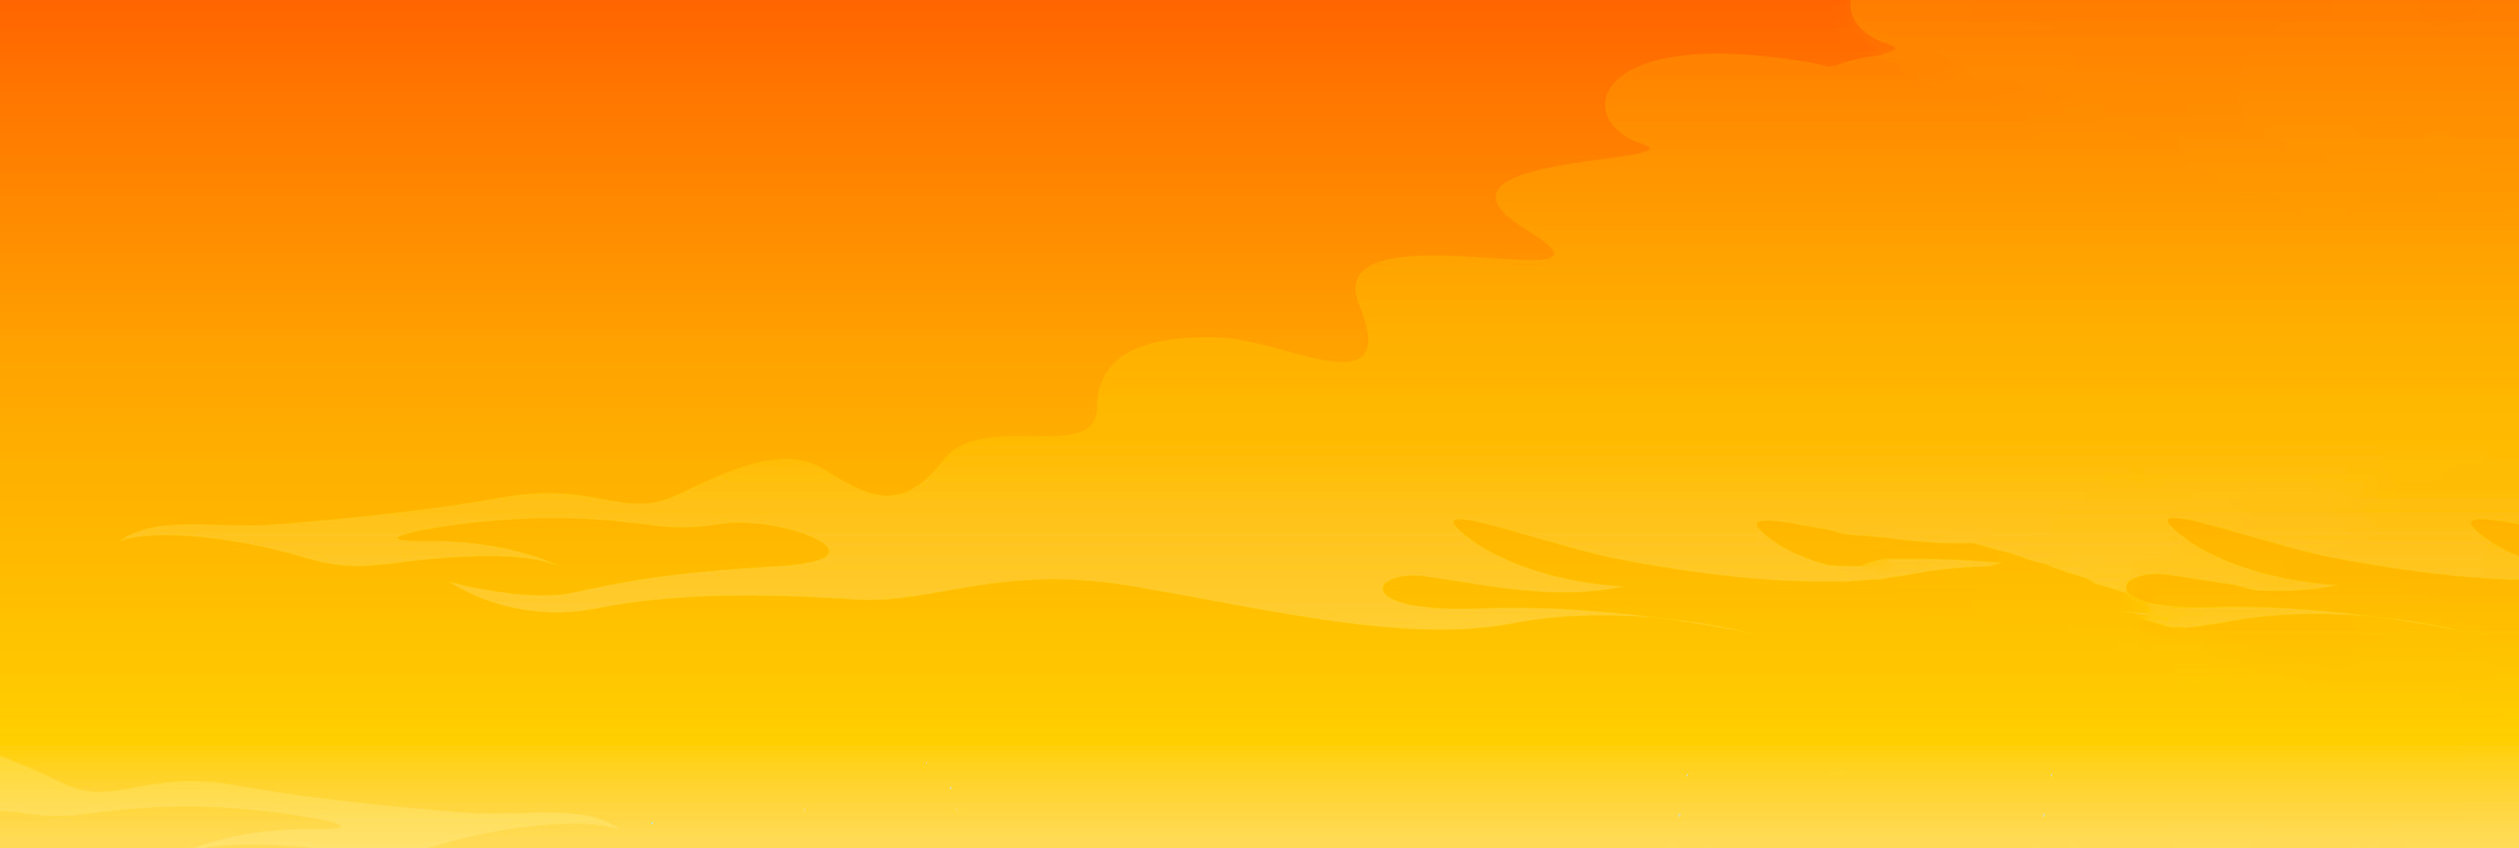
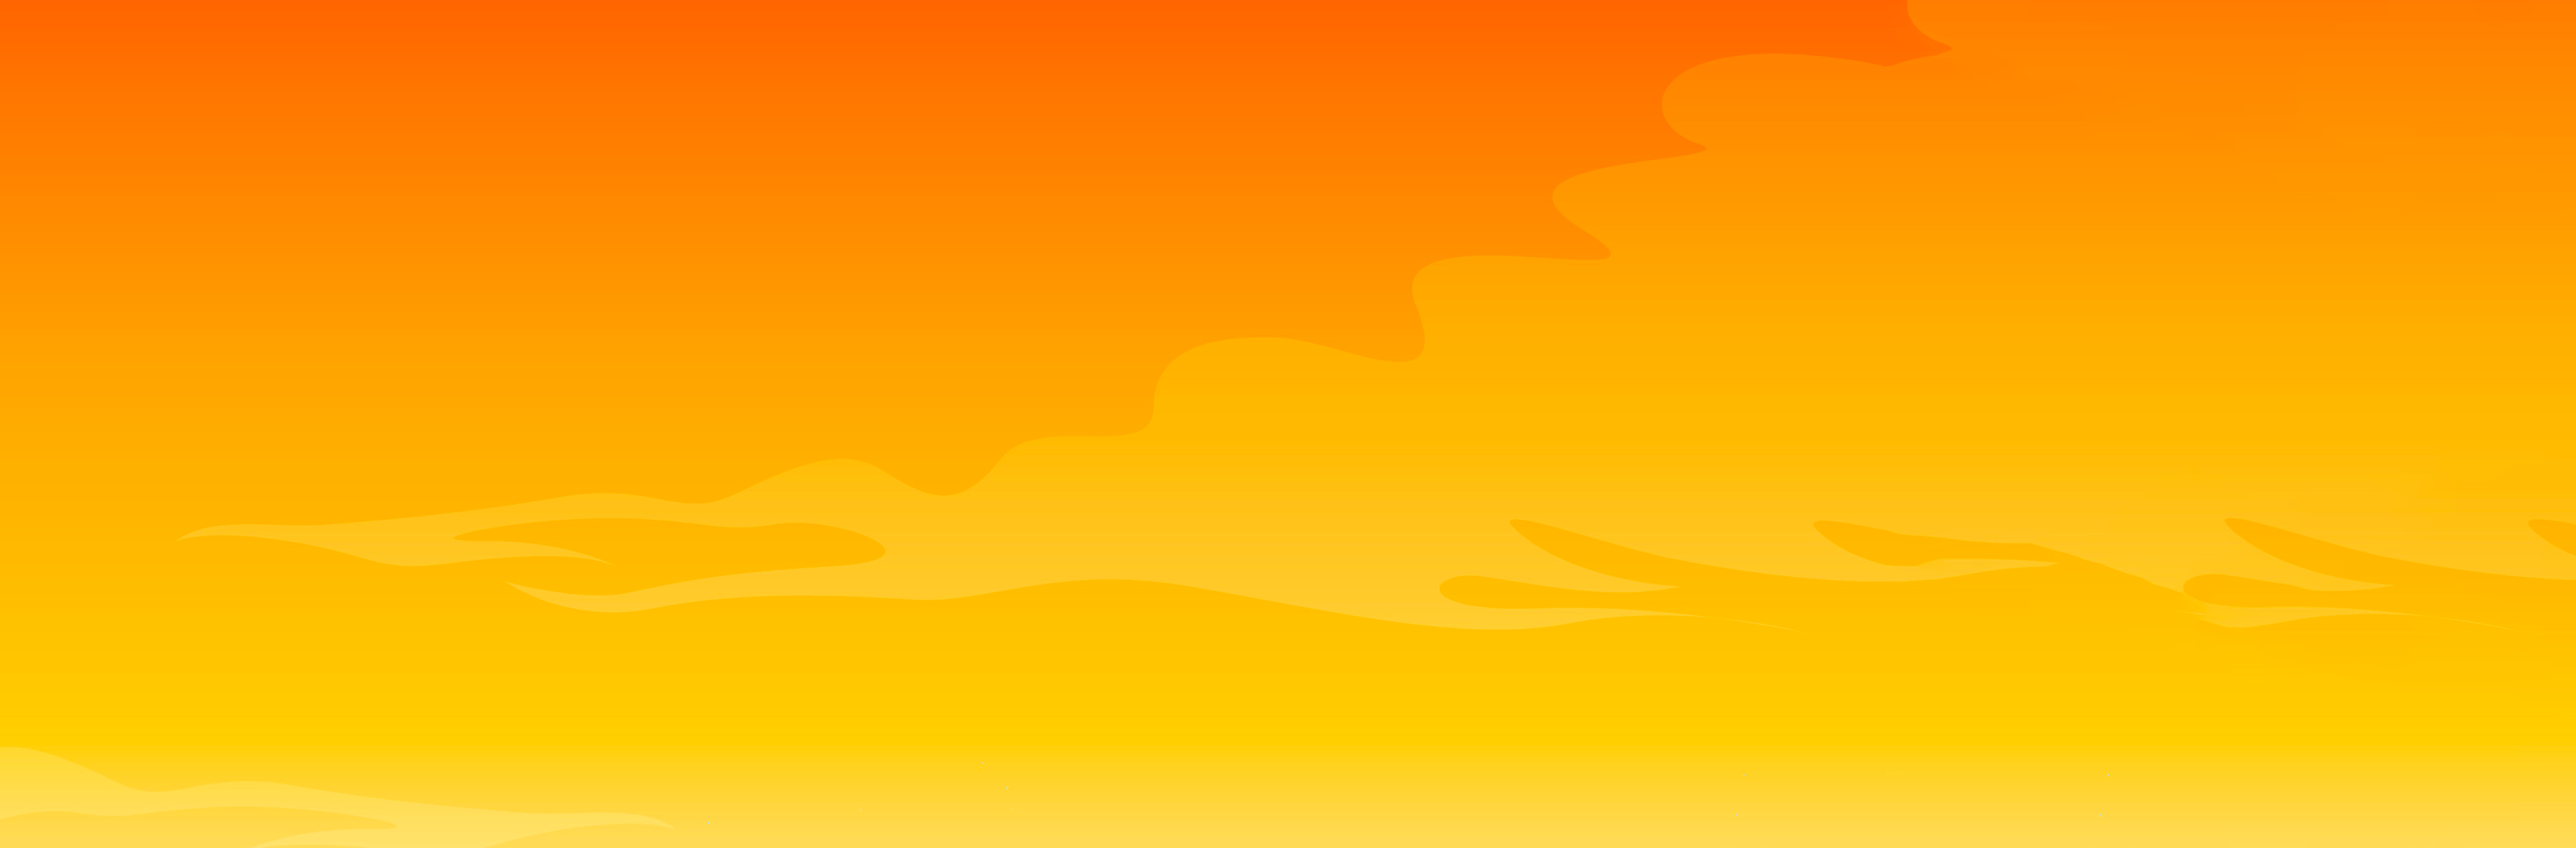
fix sub sky texture

diff --git a/client/src/app/components/pages/canvas/maps/math/boat.ts b/client/src/app/components/pages/canvas/maps/math/boat.ts
@@ -13,7 +13,7 @@ export const map: IMapData = {
         },
         "rotation": {
             "x": 0,
-            "y": -170,
+            "y": 0,
             "z": 0
         }
     },
@@ -70,7 +70,7 @@ export const map: IMapData = {
         {
             "title": "Sky 1 (Sun)",
             "type": EntityTypeEnum.square,
-            "texture": "sun/sun2.png",
+            "texture": "sun/sun.png",
             "model": "",
             "credit": "",
             "color": 0xffffff,
@@ -139,7 +139,7 @@ export const map: IMapData = {
                 "z": 0
             }
         },
-        {
+        {   
             "title": "Sky 4",
             "type": EntityTypeEnum.square,
             "texture": "sun/sky.png",
